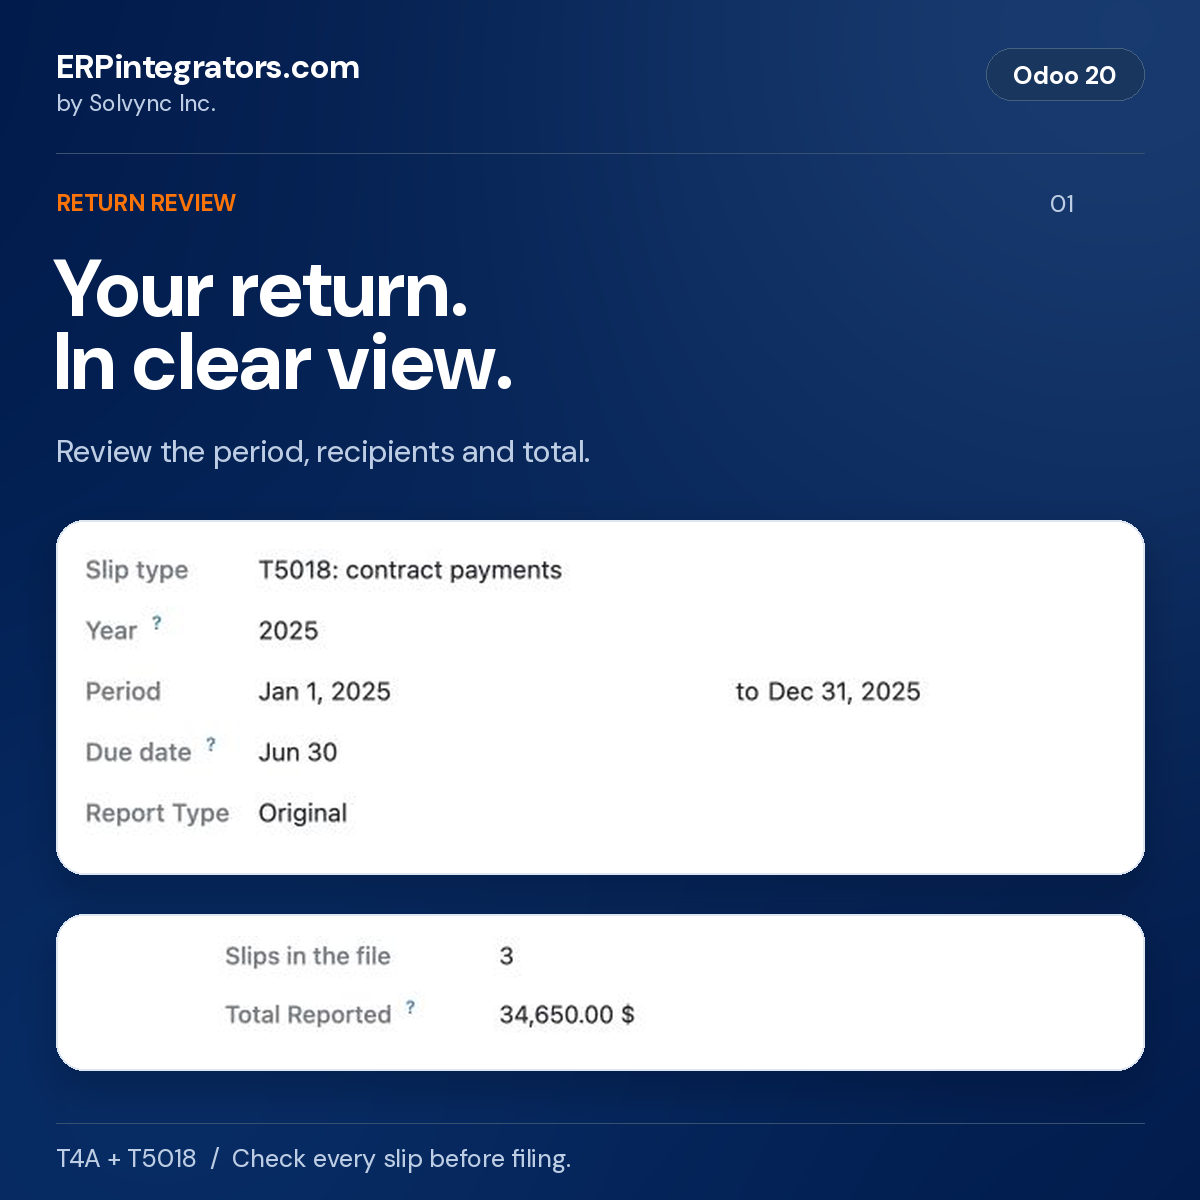
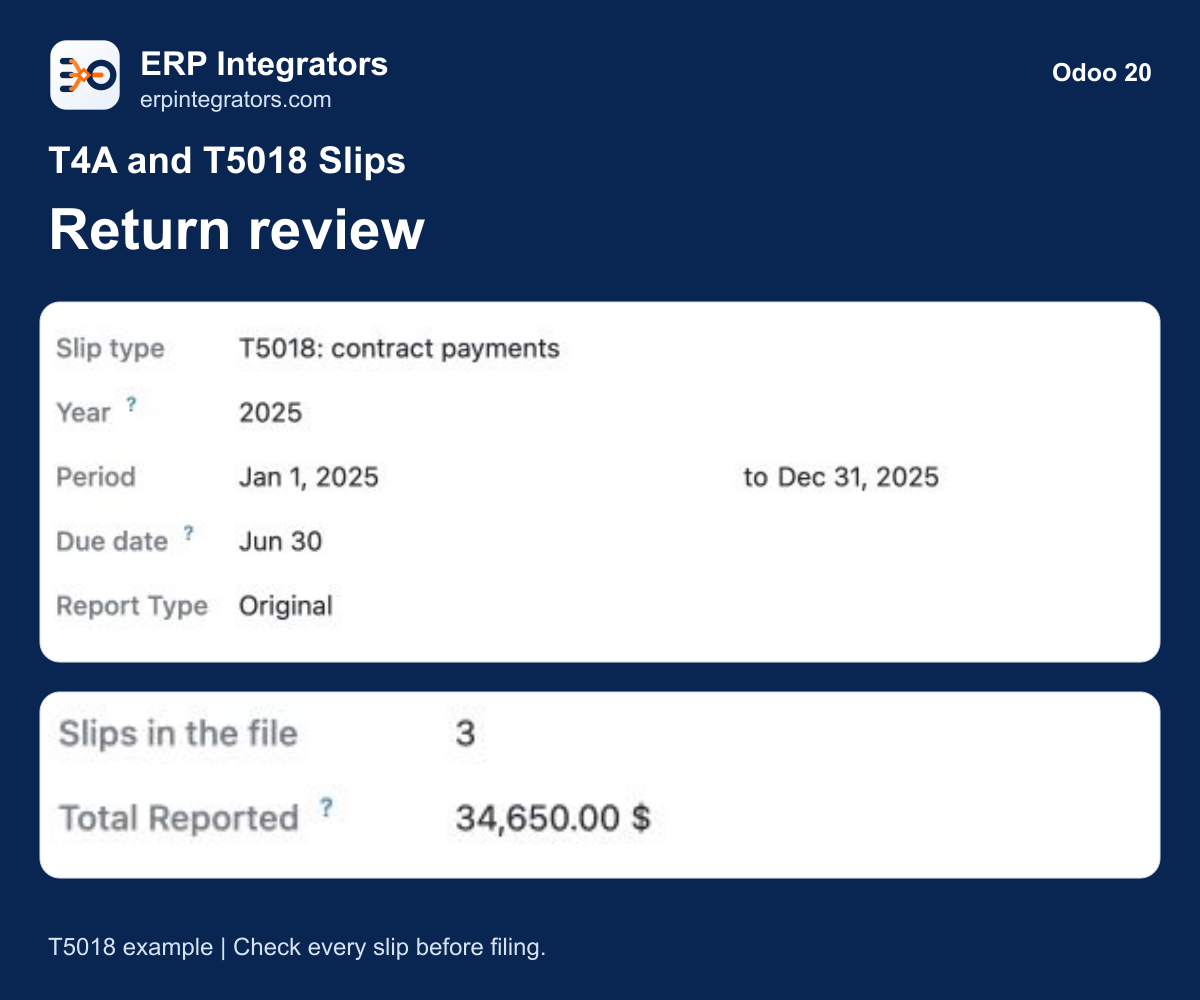
Refresh marketplace branding and release-specific screenshots

diff --git a/l10n_ca_contractor_slips/static/description/index.html b/l10n_ca_contractor_slips/static/description/index.html
@@ -1,16 +1,16 @@
 <div itemscope="" itemtype="https://schema.org/SoftwareApplication">
+<div class="d-flex align-items-center mb-4" style="color:#092653"><img src="logo.png" width="64" height="64" alt="ERP Integrators" class="mr-3"/><div><p class="mb-1" style="font-size:24px;font-weight:600">ERP Integrators</p><p class="mb-0">erpintegrators.com | Solvync Inc.</p></div></div>
 <h1 itemprop="name" id="t4a-and-t5018-slips">T4A and T5018 Slips</h1>
 <section class="mb-4">
 <h2>Release details</h2>
 <p>Version <span itemprop="softwareVersion">20.0.1.3</span>, stable release.</p>
 <p itemprop="softwareRequirements">Requires Odoo 20 Community or Enterprise, on Odoo.sh or your own server. Odoo Online is not supported.</p>
-<p><span itemprop="offers" itemscope="" itemtype="https://schema.org/Offer">Module price: US$<span itemprop="price">199</span> <span itemprop="priceCurrency">USD</span>.</span> Hosting, Odoo subscriptions and separately agreed services are excluded.</p>
-<p>Published by ERPintegrators.com, by <span itemprop="publisher" itemscope="" itemtype="https://schema.org/Organization"><span itemprop="name">Solvync Inc.</span></span>. Check every slip against your records before filing.</p>
+<p>See the current Odoo Apps checkout price for this version. Hosting, Odoo subscriptions and separately agreed services are excluded.</p>
+<p>Published by ERP Integrators, a product brand of <span itemprop="publisher" itemscope="" itemtype="https://schema.org/Organization"><span itemprop="name">Solvync Inc.</span></span>. Check every slip against your records before filing.</p>
 </section>
 
 <p>License: LGPL-3</p>
-<p><strong>ERPintegrators.com</strong> | by <strong>Solvync
-Inc.</strong></p>
+
 <p>Prepare T4A box 048 and T5018 contractor tax slips in Odoo 20, using
 the vendor payments recorded in your accounting. Review each
 contractor's total, trace the bills and payments behind it, and create a
@@ -63,29 +63,26 @@ example uses the 2026 XML submission format. The accounting and filing
 limits below apply to both Community and Enterprise.</p>
 <div class="row">
 <div class="col-12 col-lg-6 mb-4">
-<img class="img-fluid" width="1200" height="1200" src="screenshots/01-reporting-period.png" alt="T5018 return in Odoo 20 showing the closed 2025 calendar period, three slips and CAD34,650 reported" />
+<img class="img-fluid" width="1200" height="1000" src="screenshots/01-reporting-period.png" alt="T5018 return in Odoo 20 showing the closed 2025 calendar period, three slips and CAD34,650 reported" />
 </div>
 <div class="col-12 col-lg-6 mb-4">
-<img class="img-fluid" width="1200" height="1200" src="screenshots/02-reported-amount.png" alt="T5018 example: Cedarline Framing Ltd., CAD24,000 before tax and CAD25,200 reported with tax" />
+<img class="img-fluid" width="1200" height="1000" src="screenshots/02-reported-amount.png" alt="T5018 example: Cedarline Framing Ltd., CAD24,000 before tax and CAD25,200 reported with tax" />
 </div>
 <div class="col-12 col-lg-6 mb-4">
-<img class="img-fluid" width="1200" height="1200" src="screenshots/03-payment-trace.png" alt="Two dated matched vendor bills supporting Cedarline Framing Ltd. T5018 payments" />
+<img class="img-fluid" width="1200" height="1000" src="screenshots/03-payment-trace.png" alt="Two dated matched vendor bills supporting Cedarline Framing Ltd. T5018 payments" />
 </div>
 <div class="col-12 col-lg-6 mb-4">
-<img class="img-fluid" width="1200" height="1200" src="screenshots/04-cra-xml.png" alt="Finalized T5018 return with Download CRA file, ready for review and separate upload to CRA" />
+<img class="img-fluid" width="1200" height="1000" src="screenshots/04-cra-xml.png" alt="Finalized T5018 return with Download CRA file, ready for review and separate upload to CRA" />
 </div>
 <div class="col-12 col-lg-6 mb-4">
-<img class="img-fluid" width="1200" height="1200" src="screenshots/05-recipient-portal.png" alt="Recipient portal showing the contractor's own 2025 T5018 slip, CAD25,200 reported and a PDF download" />
+<img class="img-fluid" width="1200" height="1000" src="screenshots/05-recipient-portal.png" alt="Recipient portal showing the contractor's own 2025 T5018 slip, CAD25,200 reported and a PDF download" />
 </div>
 </div>
 
-<h3 id="watch-the-workflow-in-odoo-20">Watch the workflow in Odoo
-20</h3>
-<img class="img-fluid" width="720" height="450" src="t4a-t5018-odoo-20-walkthrough.gif" alt="Odoo 20 T5018 walkthrough: calculate three slips, inspect the amount and payment trace, finalize and download the CRA XML file" />
+<h3 id="t5018-review-in-odoo-20">T5018 return review in Odoo 20</h3>
+<img class="img-fluid" width="960" height="800" src="t4a-t5018-odoo-20-walkthrough.gif" alt="Odoo 20 T5018 sequence: return review, reported amounts, matched payments and saved CRA XML" />
 
-<p>This 16-second T5018 walkthrough shows how to calculate slips, review
-the contractor's amount and matched bills, finalize, then download the
-CRA file. Review the file and upload it to CRA separately using your own
+<p>This 16-second T5018 sequence shows recorded return review, reported amounts, matched payments and the saved CRA XML download. Review the file and upload it to CRA separately using your own
 authorized account. Downloading the XML does not file the return or
 establish CRA acceptance.</p>
 <h2 id="questions-about-t4a-and-t5018-in-odoo">Questions about T4A and
@@ -122,13 +119,7 @@ Odoo Online does not allow installation of this custom Python module.
 The accounting workflow uses Canadian localization and the setup
 described below.</p>
 <h3 id="what-does-the-module-cost">What does the module cost?</h3>
-<p>The Odoo Apps price is <strong>US$199</strong> for this Odoo version.
-The LGPL-3 license remains in place, and the source repository is
-public. Hosting and Odoo subscriptions are separate. Bug fixes and
-configuration advice follow the Odoo Apps support terms; installation,
-customization and other services are quoted separately. Check each slip
-against your records before filing. Your business remains responsible
-for the return and recipient delivery.</p>
+<p>See the current checkout price for this Odoo version. The LGPL-3 license remains in place, and the source repository is public. Hosting and Odoo subscriptions are separate. Bug fixes and configuration advice follow the Odoo Apps support terms; installation, customization and other services are quoted separately. Check each slip against your records before filing.</p>
 <h3 id="who-should-maintain-the-annual-filing-setup">Who should maintain
 the annual filing setup?</h3>
 <p>Assign an owner to check the current CRA schema, form requirements
